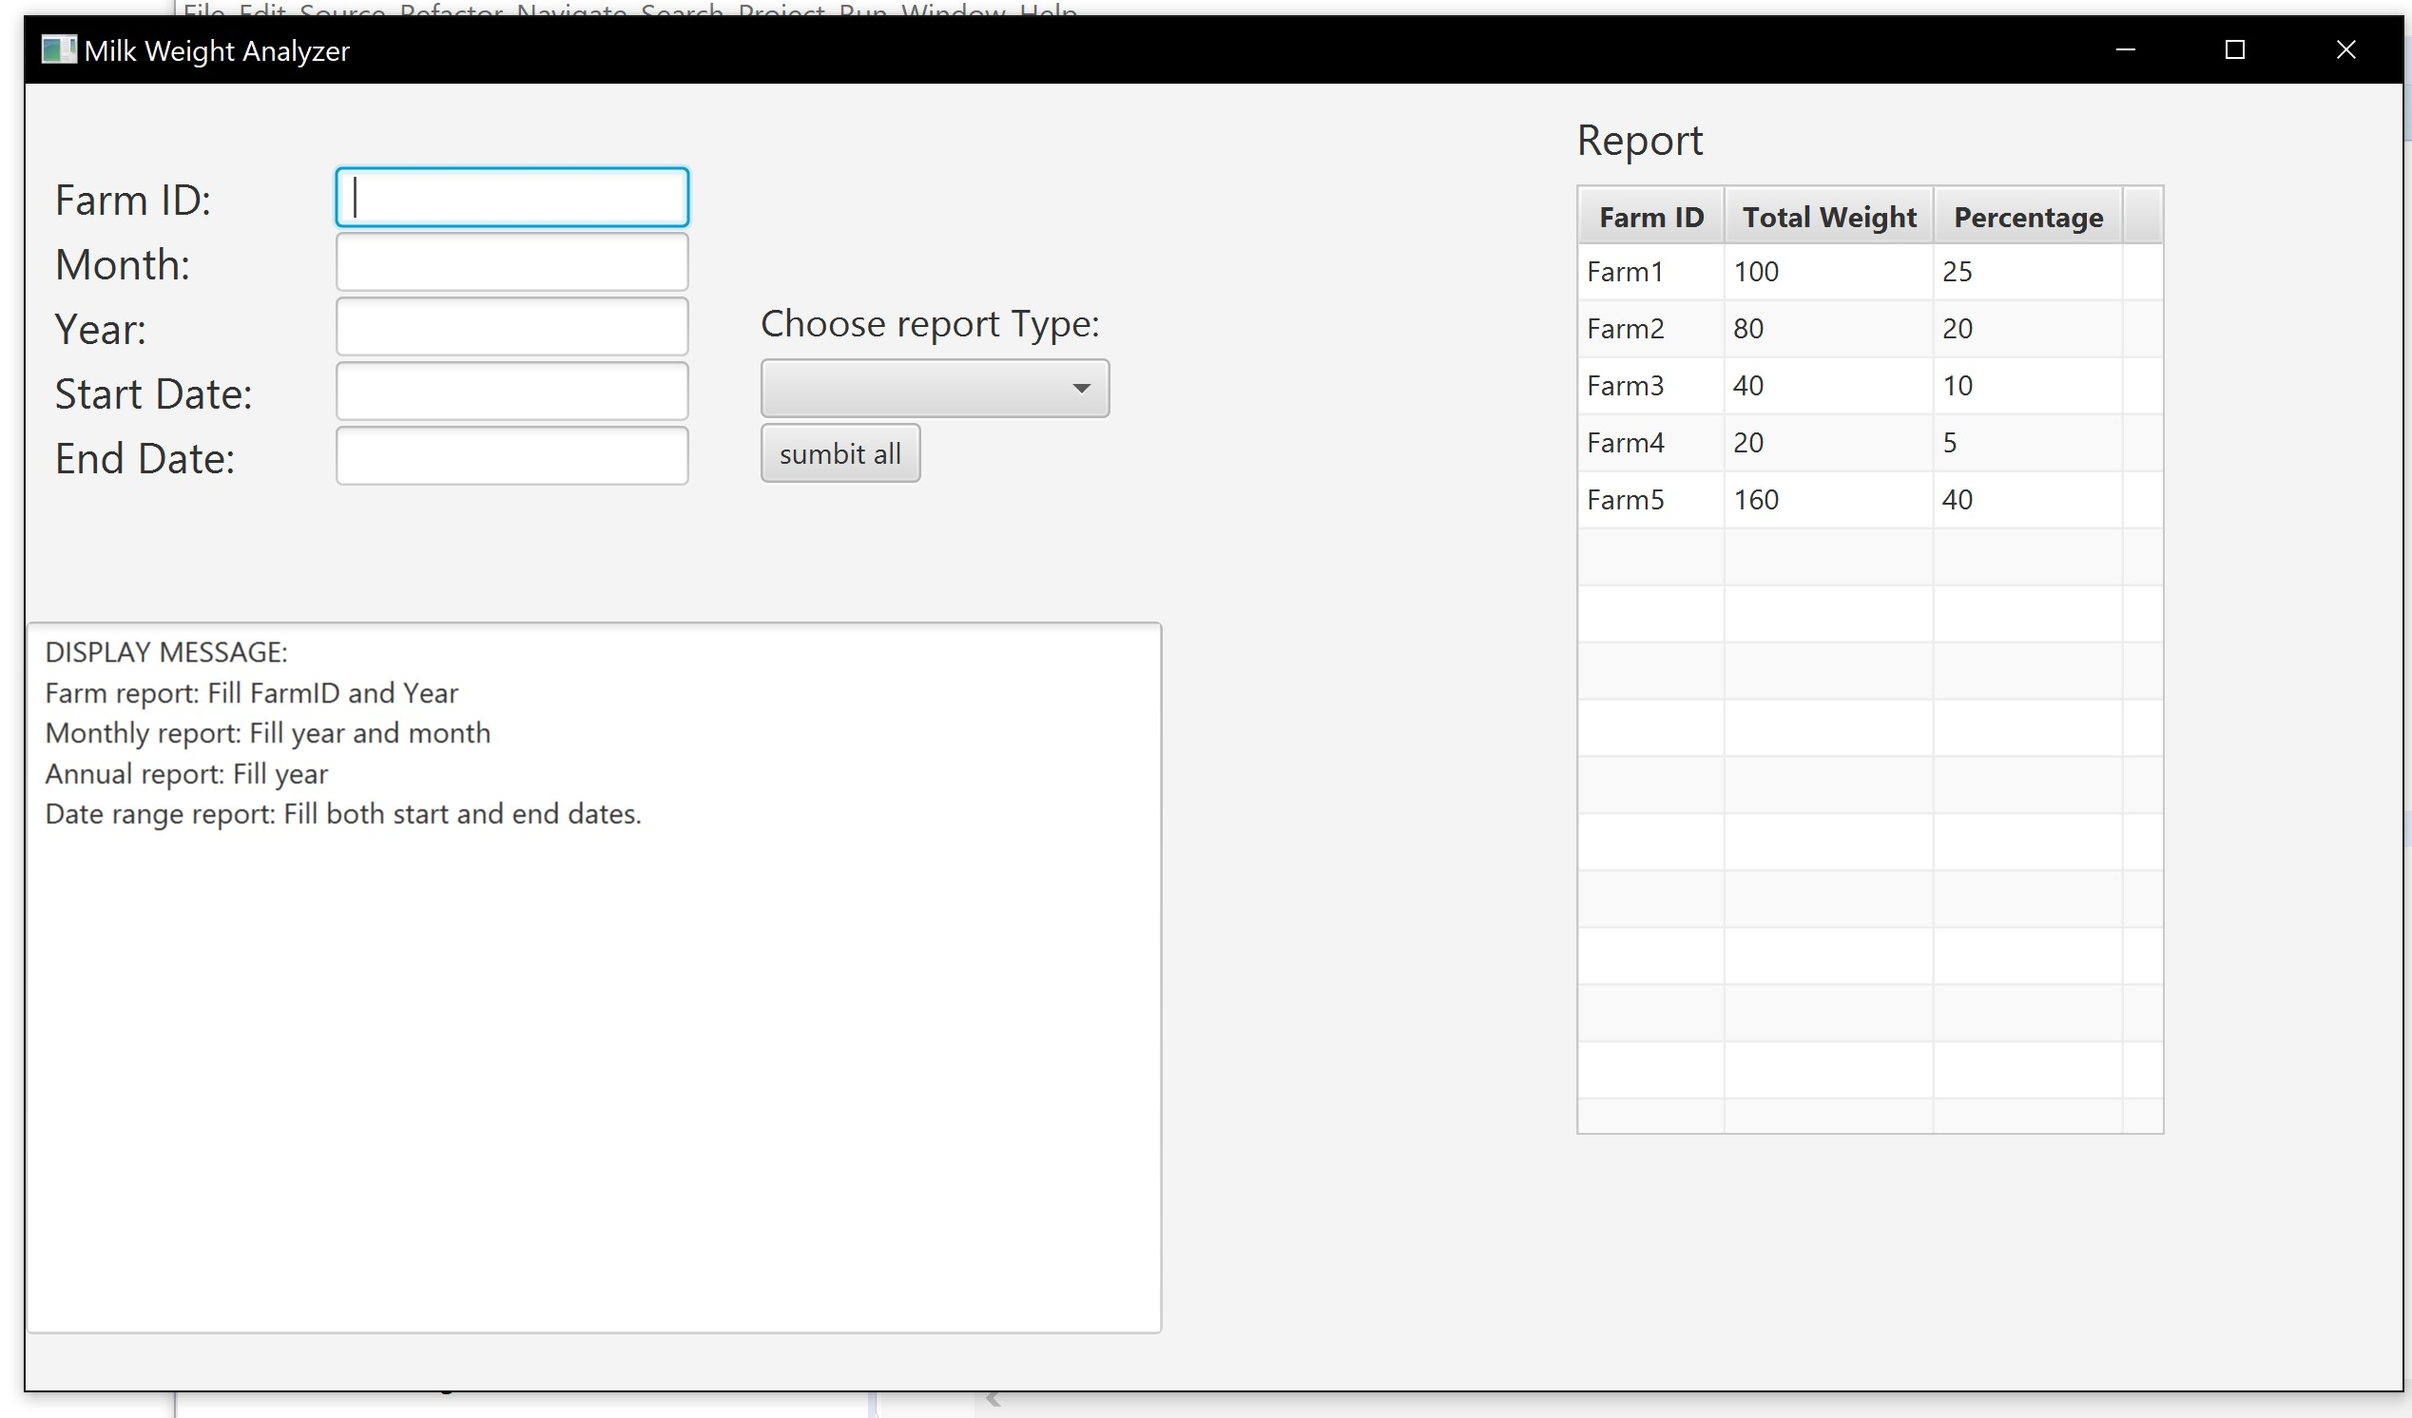
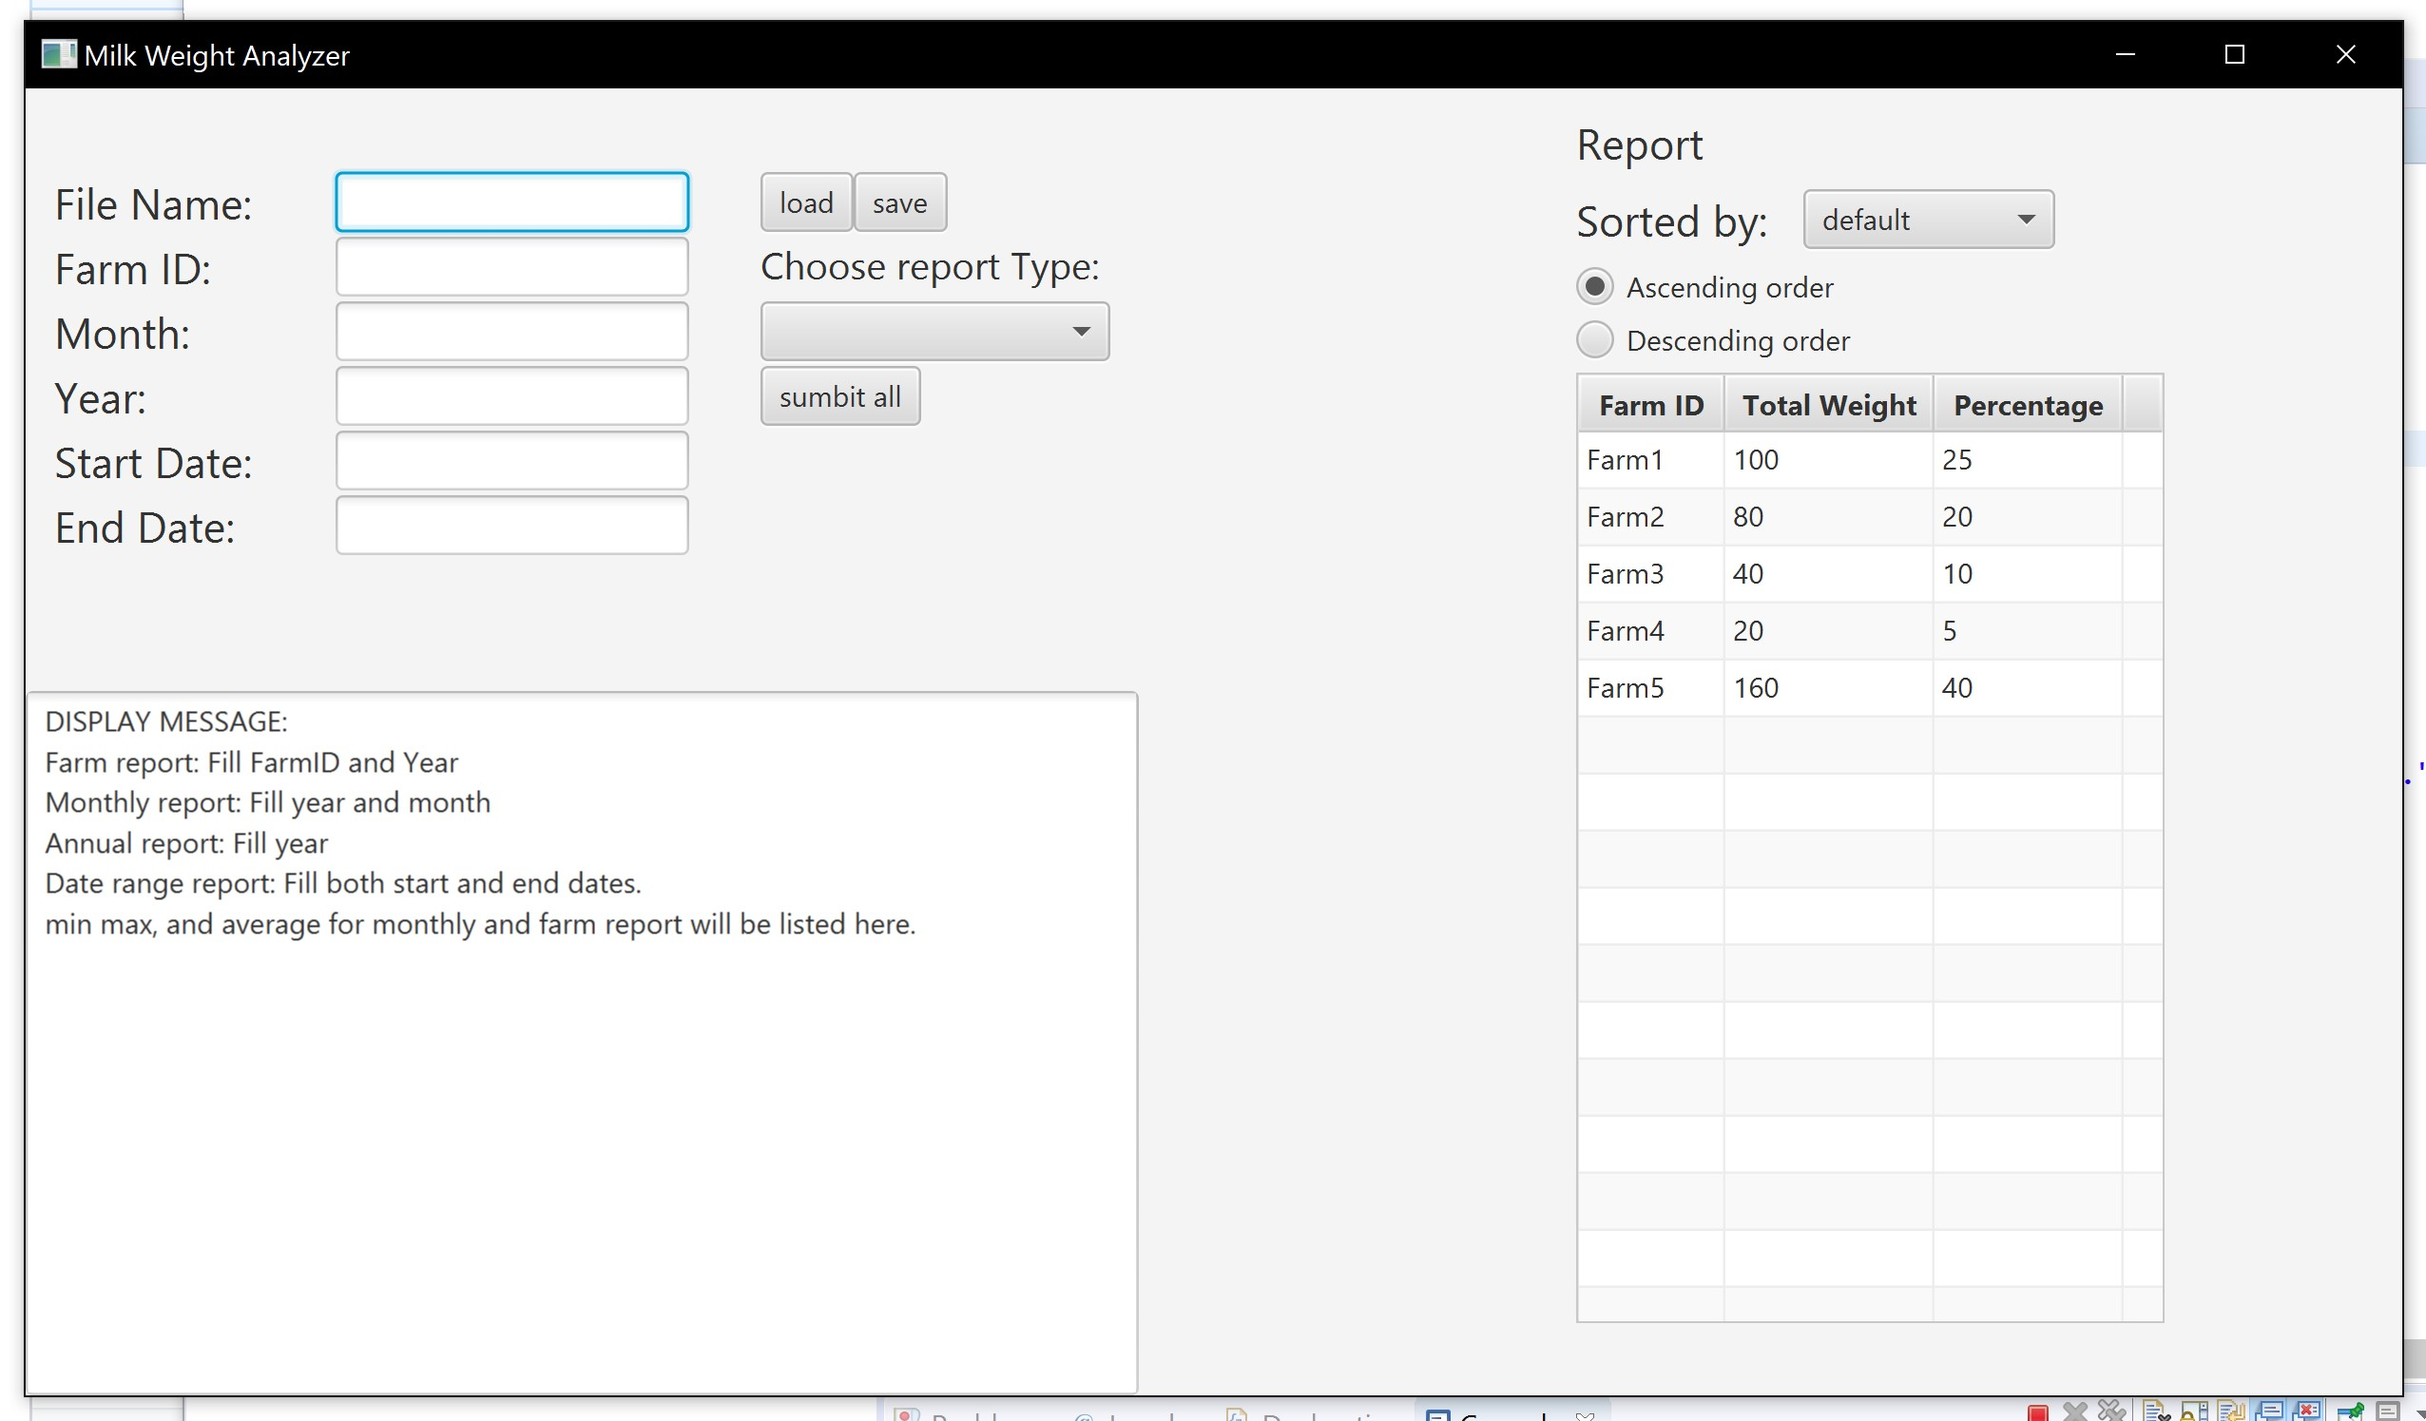
updated gui.jpg

diff --git a/application/Main.java b/application/Main.java
@@ -1,3 +1,12 @@
+/**
+ * Title:            Milk Weight Analyzer
+ * Files:            Main.java
+ * Semester:         CS400, Spring 2020
+
+ * Authors:           Zhengzhi chen jiong chen
+ * Lecturer's Name:  Deppler
+ * Lecture Number:   001
+ */
 package application;
 
 import java.io.FileInputStream;
@@ -32,201 +41,193 @@ import javafx.scene.layout.VBox;
 import javafx.scene.text.Font;
 import javafx.stage.Stage;
 
+/**
+ * class implementing the gui interface
+ * 
+ * @author
+ *
+ */
 public class Main extends Application {
-  
-  public class Row {
-    private String column1;
-    private String column2;
-    private String column3;
 
-    public Row (String column1, String column2, String column3) {
-        this.column1 = column1;
-        this.column2 = column2;
-        this.column3 = column3;
-    }
-    
+	public class Row {
+		private String column1;
+		private String column2;
+		private String column3;
 
-    public String getColumn1() {
-      return column1;
-    }
+		public Row(String column1, String column2, String column3) {
+			this.column1 = column1;
+			this.column2 = column2;
+			this.column3 = column3;
+		}
 
-    public String getColumn2() {
-      return column2;
-    }
+		public String getColumn1() {
+			return column1;
+		}
 
-    public String getColumn3() {
-      return column3;
-    }
+		public String getColumn2() {
+			return column2;
+		}
 
-}
-  
-    // store any command-line arguments that were entered.
-    // NOTE: this.getParameters().getRaw() will get these also
-    private List<String> args;
+		public String getColumn3() {
+			return column3;
+		}
 
-    private static final int WINDOW_WIDTH = 1000;
-    private static final int WINDOW_HEIGHT = 550;
-    private static final String APP_TITLE = "Milk Weight Analyzer";
-    
-    @Override
-    public void start(Stage primaryStage) throws Exception {
-            BorderPane root = new BorderPane();
-            Font textFont = new Font("Ariel", 18);
-            
-            // Add Title 
-            Label title = new Label(APP_TITLE);
-            title.setFont(new Font("Ariel",32));
-            title.setAlignment(Pos.CENTER);
-            
-            //initialization for essential elements
-  
-            Label farmID = new Label("Farm ID: ");
-            Label month = new Label("Month: ");
-            Label year = new Label("Year: ");
-            Label date1 = new Label("Start Date: ");
-            Label date2 = new Label("End Date: ");
-            Label sortedLabel = new Label("Sorted by: ");
-            Label file = new Label("File Name: ");
-            Label reportLabel = new Label("Choose report Type: ");
-            TextArea message = new TextArea("DISPLAY MESSAGE:\n"
-            		+ "Farm report: Fill FarmID and Year \n"
-            		+ "Monthly report: Fill year and month\n"
-            		+ "Annual report: Fill year\n"
-            		+ "Date range report: Fill both start and end dates.\n"
-            		+ "min max, and average for monthly and farm report will be listed here.");
-            farmID.setFont(textFont);
-            month.setFont(textFont);
-            year.setFont(textFont);
-            date1.setFont(textFont);
-            date2.setFont(textFont);
-            sortedLabel.setFont(textFont);
-            file.setFont(textFont);
-            reportLabel.setFont(new Font(16));;
-            TextField tf1 = new TextField();
-            TextField tf2 = new TextField();
-            TextField tf3 = new TextField();
-            TextField tf4 = new TextField();
-            TextField tf5 = new TextField();
-            TextField fileName = new TextField();
-            message.setEditable(false);
-            message.setPrefSize(10, 300);//need to resize
-            
-            //combo box for type of report needed
-            ObservableList<String> options = 
-            	    FXCollections.observableArrayList(
-            	        "Farm Report",
-            	        "Annual Report",
-            	        "Monthly Report",
-            	        "Date Range Report"
-            	    );
-            ComboBox reportCbox = new ComboBox(options);
-            
-            //button to submit info entered
-            Button sumbitBtn = new Button("sumbit all");
-            Button loadFile = new Button("load");
-            Button saveFile = new Button("save");
+	}
 
-            //hbox to add load/save bottons
-            HBox hboxBtn = new HBox();
-            hboxBtn.getChildren().addAll(loadFile,saveFile);
-            
-            //vbox for textField labels
-            VBox vbox1 = new VBox();
-            vbox1.getChildren().addAll(file, farmID, month, year, date1, date2);
-            
-            //vbox for textField
-            VBox vbox2 = new VBox();
-            vbox2.setSpacing(2);
-            vbox2.getChildren().addAll(fileName, tf1,tf2,tf3,tf4,tf5);
-            
-            //vbox for choosing report type and sumbit button
-            VBox vbox3 = new VBox();
-            vbox3.setSpacing(2);
-            vbox3.getChildren().addAll(hboxBtn,reportLabel, reportCbox, sumbitBtn);
+	// store any command-line arguments that were entered.
+	// NOTE: this.getParameters().getRaw() will get these also
+	private List<String> args;
+
+	private static final int WINDOW_WIDTH = 1000;
+	private static final int WINDOW_HEIGHT = 550;
+	private static final String APP_TITLE = "Milk Weight Analyzer";
+
+	@Override
+	public void start(Stage primaryStage) throws Exception {
+		BorderPane root = new BorderPane();
+		Font textFont = new Font("Ariel", 18);
+
+		// Add Title
+		Label title = new Label(APP_TITLE);
+		title.setFont(new Font("Ariel", 32));
+		title.setAlignment(Pos.CENTER);
+
+		// initialization for essential elements
+
+		Label farmID = new Label("Farm ID: ");
+		Label month = new Label("Month: ");
+		Label year = new Label("Year: ");
+		Label date1 = new Label("Start Date: ");
+		Label date2 = new Label("End Date: ");
+		Label sortedLabel = new Label("Sorted by: ");
+		Label file = new Label("File Name: ");
+		Label reportLabel = new Label("Choose report Type: ");
+		TextArea message = new TextArea(
+				"DISPLAY MESSAGE:\n" + "Farm report: Fill FarmID and Year \n" + "Monthly report: Fill year and month\n"
+						+ "Annual report: Fill year\n" + "Date range report: Fill both start and end dates.\n"
+						+ "min max, and average for monthly and farm report will be listed here.");
+		farmID.setFont(textFont);
+		month.setFont(textFont);
+		year.setFont(textFont);
+		date1.setFont(textFont);
+		date2.setFont(textFont);
+		sortedLabel.setFont(textFont);
+		file.setFont(textFont);
+		reportLabel.setFont(new Font(16));
+		;
+		TextField tf1 = new TextField();
+		TextField tf2 = new TextField();
+		TextField tf3 = new TextField();
+		TextField tf4 = new TextField();
+		TextField tf5 = new TextField();
+		TextField fileName = new TextField();
+		message.setEditable(false);
+		message.setPrefSize(10, 300);// need to resize
+
+		// combo box for type of report needed
+		ObservableList<String> options = FXCollections.observableArrayList("Farm Report", "Annual Report",
+				"Monthly Report", "Date Range Report");
+		ComboBox reportCbox = new ComboBox(options);
+
+		// button to submit info entered
+		Button sumbitBtn = new Button("sumbit all");
+		Button loadFile = new Button("load");
+		Button saveFile = new Button("save");
+
+		// hbox to add load/save bottons
+		HBox hboxBtn = new HBox();
+		hboxBtn.getChildren().addAll(loadFile, saveFile);
+
+		// vbox for textField labels
+		VBox vbox1 = new VBox();
+		vbox1.getChildren().addAll(file, farmID, month, year, date1, date2);
+
+		// vbox for textField
+		VBox vbox2 = new VBox();
+		vbox2.setSpacing(2);
+		vbox2.getChildren().addAll(fileName, tf1, tf2, tf3, tf4, tf5);
+
+		// vbox for choosing report type and sumbit button
+		VBox vbox3 = new VBox();
+		vbox3.setSpacing(2);
+		vbox3.getChildren().addAll(hboxBtn, reportLabel, reportCbox, sumbitBtn);
 //            vbox3.setPadding(new Insets(53,10,0,0));
-            
-            
-            //hbox to manage layout
-            HBox hbox = new HBox();
-            hbox.setPadding(new Insets(15,12,15,12));
-            hbox.setSpacing(30);
-            hbox.getChildren().addAll(vbox1,vbox2,vbox3);
-            
-            //vbox for text fields
-            VBox outer_vbox = new VBox();
-            outer_vbox.setSpacing(40);
-            outer_vbox.setPadding(new Insets(20,10,0,0));
-            outer_vbox.getChildren().addAll(hbox, message);
 
-            
-            root.setLeft(outer_vbox);
-            
-            //create items for table view
-            TableView table = new TableView();
-            
-            Label tableTitle = new Label("Report");
-            tableTitle.setFont(textFont);
-            
-            TableColumn farm = new TableColumn("Farm ID");
-            farm.setCellValueFactory(new PropertyValueFactory<>("column1"));
-            TableColumn weight = new TableColumn("Total Weight");
-            weight.setCellValueFactory(new PropertyValueFactory<>("column2"));
-            TableColumn percentage = new TableColumn("Percentage");
-            percentage.setCellValueFactory(new PropertyValueFactory<>("column3"));
-            
-            table.getColumns().addAll(farm, weight, percentage);
-            
-            Row row1 = new Row("Farm1", "100", "25");
-            Row row2 = new Row("Farm2", "80", "20");
-            Row row3 = new Row("Farm3", "40", "10");
-            Row row4 = new Row("Farm4", "20", "5");
-            Row row5 = new Row("Farm5", "160", "40");
-            
-            table.getItems().addAll(row1, row2, row3, row4, row5);
-            
-            //hboxTable for sorting options
-            HBox hboxTable = new HBox();
-            ObservableList<String> sortingOptions = 
-            	    FXCollections.observableArrayList(
-            	    	"default",
-            	        "weight",
-            	        "percentage",
-            	        "farm ID"
-            	    );
-            ComboBox sortingcbox = new ComboBox(sortingOptions);
-            sortingcbox.getSelectionModel().select(0);
-            VBox vbox = new VBox();
-            hboxTable.getChildren().addAll(sortedLabel,sortingcbox);
-            hboxTable.setSpacing(10);
-            
-            ToggleGroup tgSorting = new ToggleGroup();;
-            RadioButton sortAscending = new RadioButton("Ascending order");
-            RadioButton sortDescending= new RadioButton("Descending order");
-            sortAscending.setToggleGroup(tgSorting);
-            sortDescending.setToggleGroup(tgSorting);
-            sortAscending.setSelected(true);
-            
-            vbox.setSpacing(5);
-            vbox.setPadding(new Insets(10, 0, 0, 10));
-            vbox.getChildren().addAll(tableTitle, hboxTable, sortAscending, sortDescending, table);
-            
-            root.setRight(vbox);
-            root.setPadding(new Insets(0,100,0, 0));
-     
-            
-        // Create Scene
-            Scene mainScene = new Scene(root, WINDOW_WIDTH, WINDOW_HEIGHT);
+		// hbox to manage layout
+		HBox hbox = new HBox();
+		hbox.setPadding(new Insets(15, 12, 15, 12));
+		hbox.setSpacing(30);
+		hbox.getChildren().addAll(vbox1, vbox2, vbox3);
 
-        // Add the stuff and set the primary stage
-            primaryStage.setTitle(APP_TITLE);
-            primaryStage.setScene(mainScene);
-            primaryStage.show();
-    }
+		// vbox for text fields
+		VBox outer_vbox = new VBox();
+		outer_vbox.setSpacing(40);
+		outer_vbox.setPadding(new Insets(20, 10, 0, 0));
+		outer_vbox.getChildren().addAll(hbox, message);
 
-    /**
-     * @param args
-     */
-    public static void main(String[] args) {
-           launch(args);
-    }
+		root.setLeft(outer_vbox);
+
+		// create items for table view
+		TableView table = new TableView();
+
+		Label tableTitle = new Label("Report");
+		tableTitle.setFont(textFont);
+
+		TableColumn farm = new TableColumn("Farm ID");
+		farm.setCellValueFactory(new PropertyValueFactory<>("column1"));
+		TableColumn weight = new TableColumn("Total Weight");
+		weight.setCellValueFactory(new PropertyValueFactory<>("column2"));
+		TableColumn percentage = new TableColumn("Percentage");
+		percentage.setCellValueFactory(new PropertyValueFactory<>("column3"));
+
+		table.getColumns().addAll(farm, weight, percentage);
+
+		Row row1 = new Row("Farm1", "100", "25");
+		Row row2 = new Row("Farm2", "80", "20");
+		Row row3 = new Row("Farm3", "40", "10");
+		Row row4 = new Row("Farm4", "20", "5");
+		Row row5 = new Row("Farm5", "160", "40");
+
+		table.getItems().addAll(row1, row2, row3, row4, row5);
+
+		// hboxTable for sorting options
+		HBox hboxTable = new HBox();
+		ObservableList<String> sortingOptions = FXCollections.observableArrayList("default", "weight", "percentage",
+				"farm ID");
+		ComboBox sortingcbox = new ComboBox(sortingOptions);
+		sortingcbox.getSelectionModel().select(0);
+		VBox vbox = new VBox();
+		hboxTable.getChildren().addAll(sortedLabel, sortingcbox);
+		hboxTable.setSpacing(10);
+
+		ToggleGroup tgSorting = new ToggleGroup();
+		;
+		RadioButton sortAscending = new RadioButton("Ascending order");
+		RadioButton sortDescending = new RadioButton("Descending order");
+		sortAscending.setToggleGroup(tgSorting);
+		sortDescending.setToggleGroup(tgSorting);
+		sortAscending.setSelected(true);
+
+		vbox.setSpacing(5);
+		vbox.setPadding(new Insets(10, 0, 0, 10));
+		vbox.getChildren().addAll(tableTitle, hboxTable, sortAscending, sortDescending, table);
+
+		root.setRight(vbox);
+		root.setPadding(new Insets(0, 100, 0, 0));
+
+		// Create Scene
+		Scene mainScene = new Scene(root, WINDOW_WIDTH, WINDOW_HEIGHT);
+
+		// Add the stuff and set the primary stage
+		primaryStage.setTitle(APP_TITLE);
+		primaryStage.setScene(mainScene);
+		primaryStage.show();
+	}
+
+	/**
+	 * @param args
+	 */
+	public static void main(String[] args) {
+		launch(args);
+	}
 }
